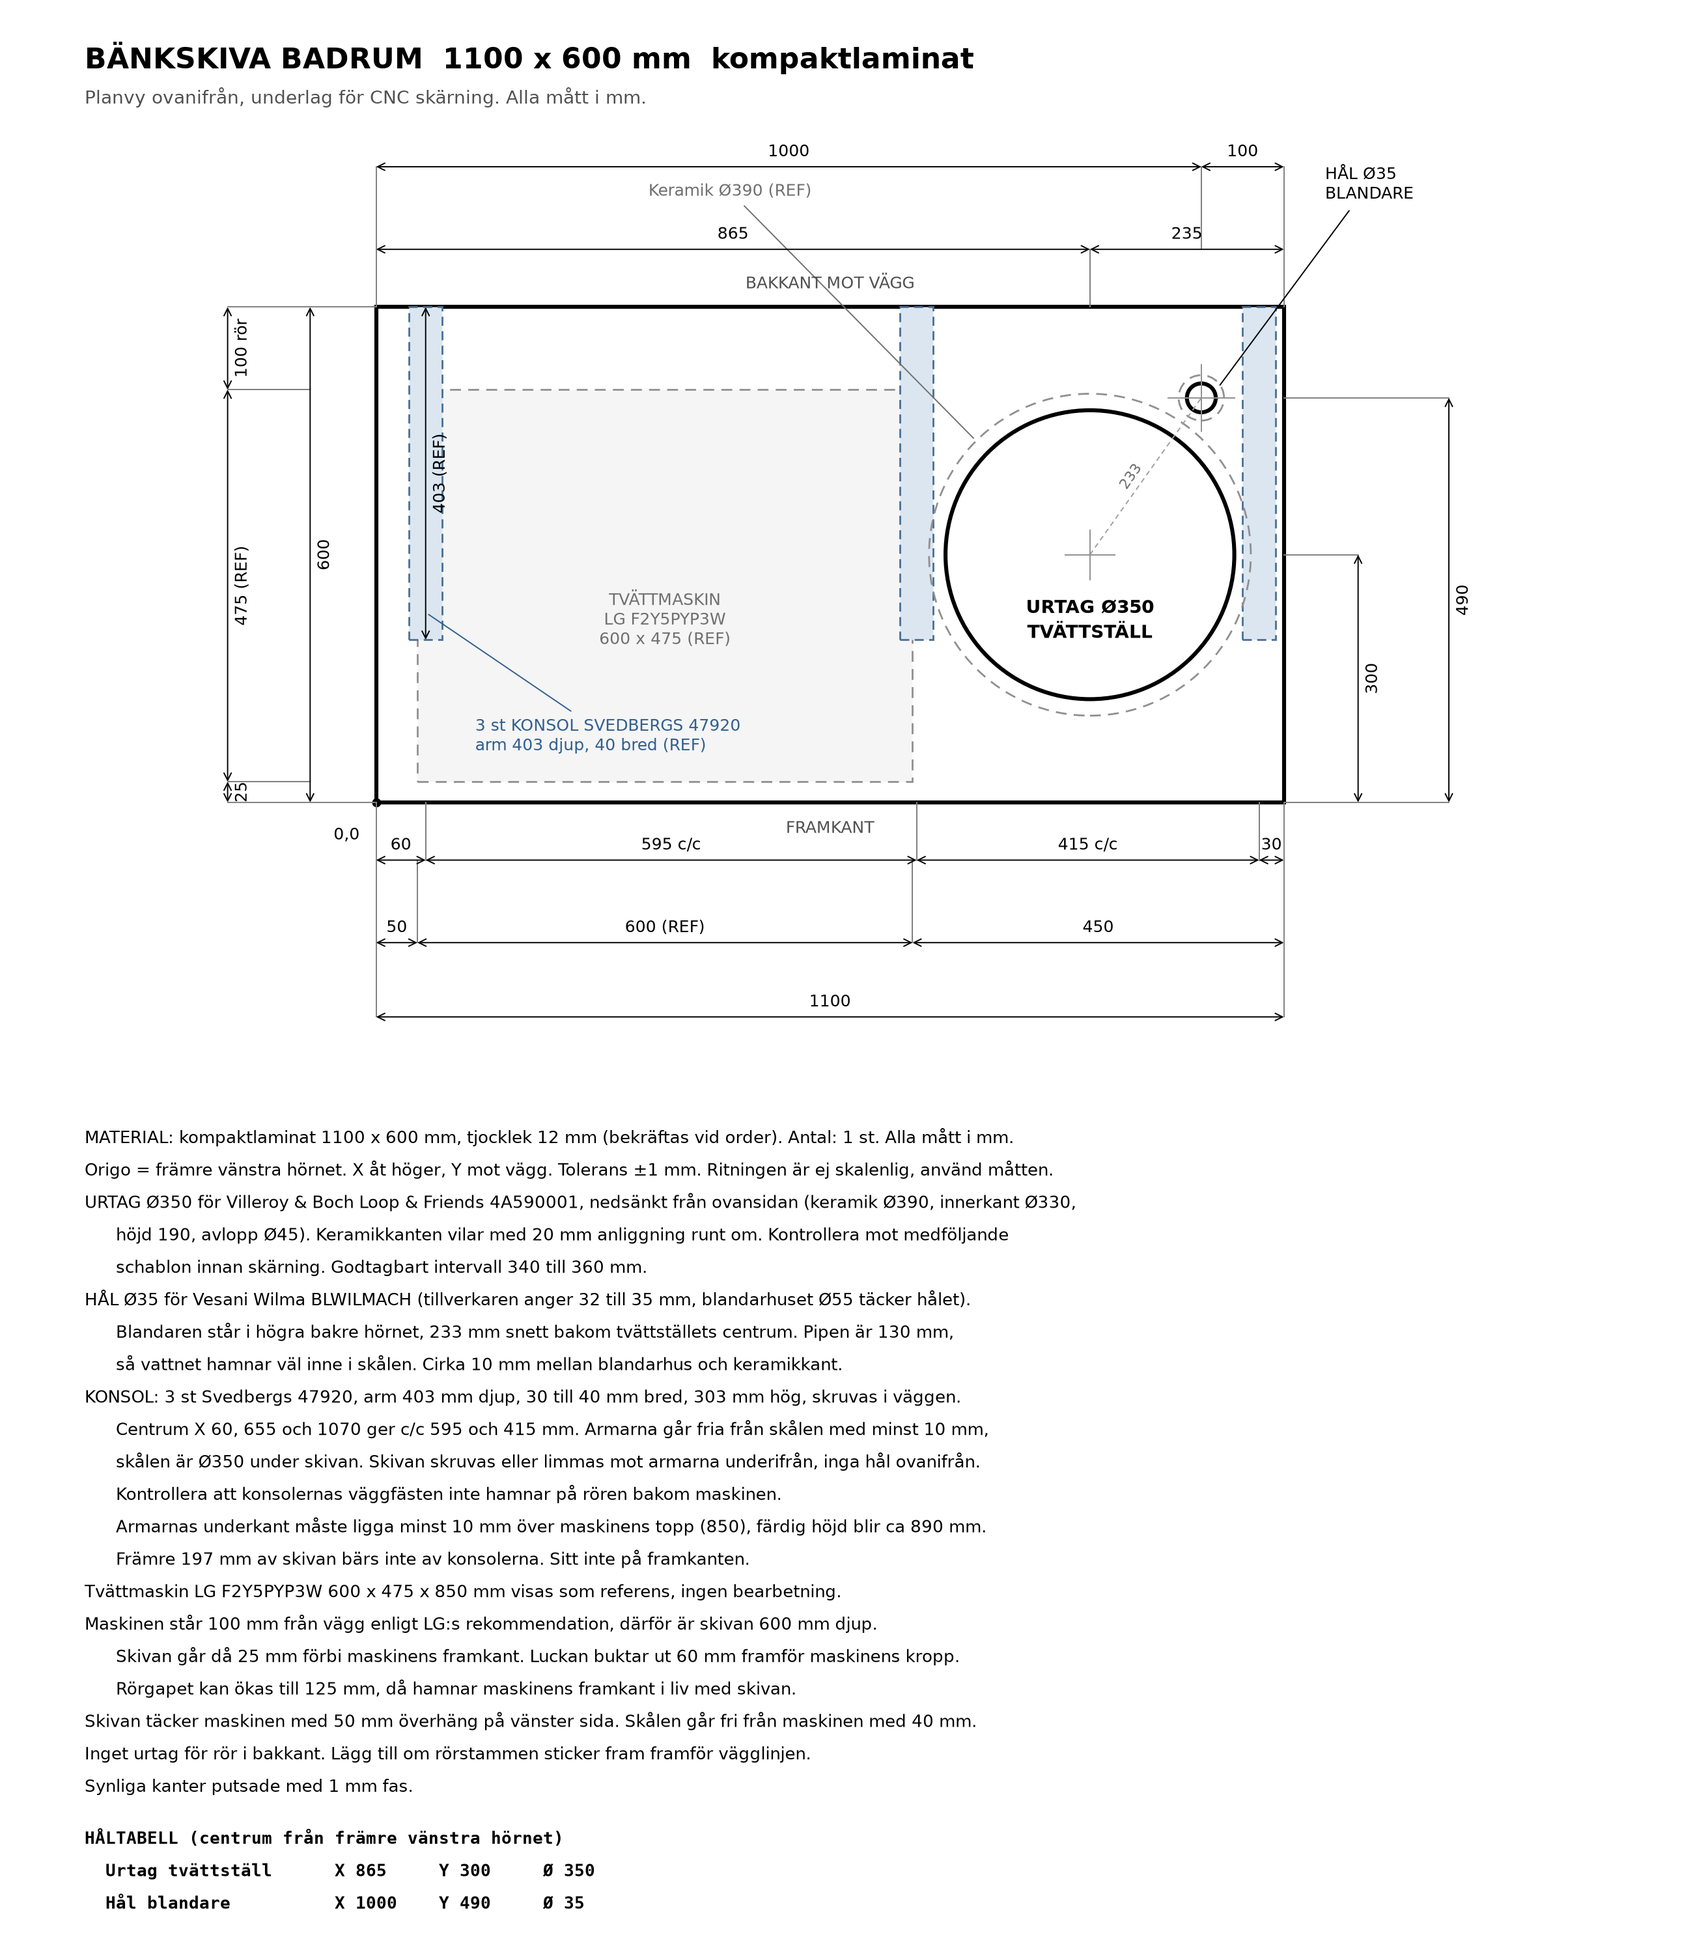
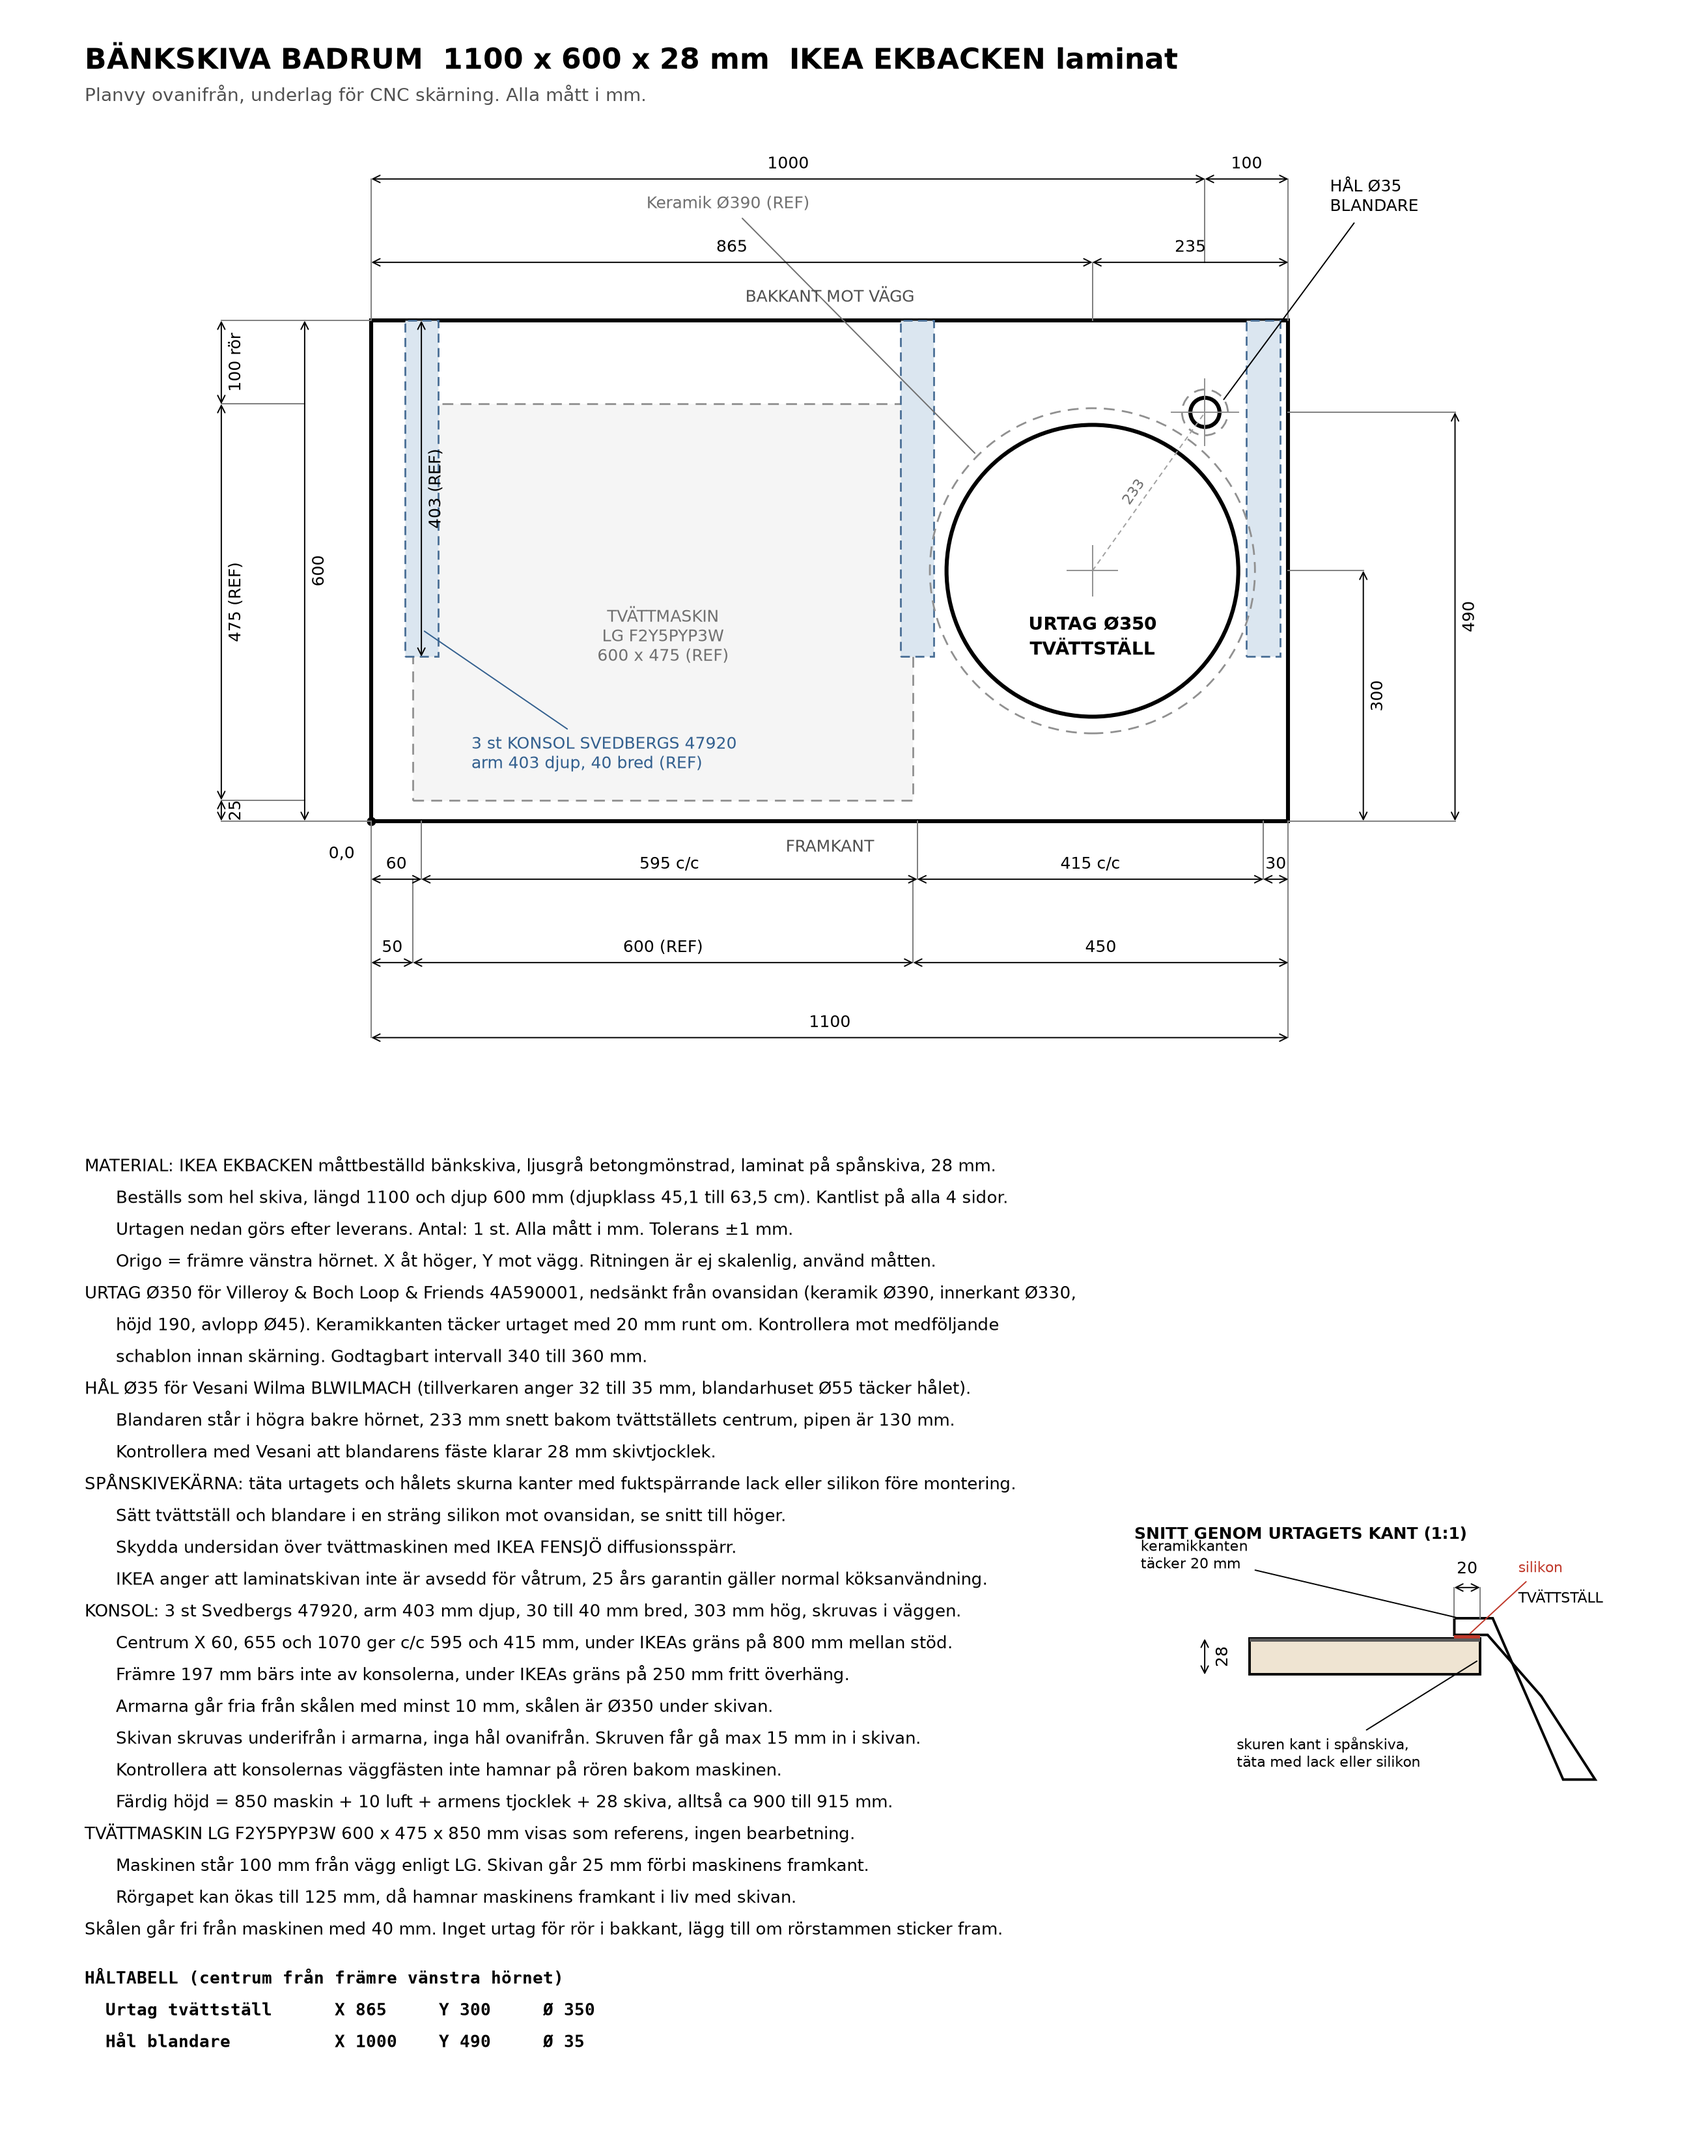
switch material to IKEA EKBACKEN 28 mm laminate, add edge section detail and clearance checks

diff --git a/worktop_drawing/plan_drawing.py b/worktop_drawing/plan_drawing.py
@@ -5,33 +5,38 @@ matplotlib.use("Agg")
 import matplotlib.pyplot as plt
 from matplotlib.patches import Circle, Rectangle
 
+import edge_detail
 import specs as s
 from drawing_helpers import cross, dim_h, dim_v, leader
 
 MACHINE_LINE = 1.0
 
 NOTES = [
-    "MATERIAL: kompaktlaminat 1100 x 600 mm, tjocklek 12 mm (bekräftas vid order). Antal: 1 st. Alla mått i mm.",
-    "Origo = främre vänstra hörnet. X åt höger, Y mot vägg. Tolerans ±1 mm. Ritningen är ej skalenlig, använd måtten.",
+    "MATERIAL: IKEA EKBACKEN måttbeställd bänkskiva, ljusgrå betongmönstrad, laminat på spånskiva, 28 mm.",
+    "      Beställs som hel skiva, längd 1100 och djup 600 mm (djupklass 45,1 till 63,5 cm). Kantlist på alla 4 sidor.",
+    "      Urtagen nedan görs efter leverans. Antal: 1 st. Alla mått i mm. Tolerans ±1 mm.",
+    "      Origo = främre vänstra hörnet. X åt höger, Y mot vägg. Ritningen är ej skalenlig, använd måtten.",
     "URTAG Ø350 för Villeroy & Boch Loop & Friends 4A590001, nedsänkt från ovansidan (keramik Ø390, innerkant Ø330,",
-    "      höjd 190, avlopp Ø45). Keramikkanten vilar med 20 mm anliggning runt om. Kontrollera mot medföljande",
+    "      höjd 190, avlopp Ø45). Keramikkanten täcker urtaget med 20 mm runt om. Kontrollera mot medföljande",
     "      schablon innan skärning. Godtagbart intervall 340 till 360 mm.",
     "HÅL Ø35 för Vesani Wilma BLWILMACH (tillverkaren anger 32 till 35 mm, blandarhuset Ø55 täcker hålet).",
-    "      Blandaren står i högra bakre hörnet, 233 mm snett bakom tvättställets centrum. Pipen är 130 mm,",
-    "      så vattnet hamnar väl inne i skålen. Cirka 10 mm mellan blandarhus och keramikkant.",
+    "      Blandaren står i högra bakre hörnet, 233 mm snett bakom tvättställets centrum, pipen är 130 mm.",
+    "      Kontrollera med Vesani att blandarens fäste klarar 28 mm skivtjocklek.",
+    "SPÅNSKIVEKÄRNA: täta urtagets och hålets skurna kanter med fuktspärrande lack eller silikon före montering.",
+    "      Sätt tvättställ och blandare i en sträng silikon mot ovansidan, se snitt till höger.",
+    "      Skydda undersidan över tvättmaskinen med IKEA FENSJÖ diffusionsspärr.",
+    "      IKEA anger att laminatskivan inte är avsedd för våtrum, 25 års garantin gäller normal köksanvändning.",
     "KONSOL: 3 st Svedbergs 47920, arm 403 mm djup, 30 till 40 mm bred, 303 mm hög, skruvas i väggen.",
-    "      Centrum X 60, 655 och 1070 ger c/c 595 och 415 mm. Armarna går fria från skålen med minst 10 mm,",
-    "      skålen är Ø350 under skivan. Skivan skruvas eller limmas mot armarna underifrån, inga hål ovanifrån.",
+    "      Centrum X 60, 655 och 1070 ger c/c 595 och 415 mm, under IKEAs gräns på 800 mm mellan stöd.",
+    "      Främre 197 mm bärs inte av konsolerna, under IKEAs gräns på 250 mm fritt överhäng.",
+    "      Armarna går fria från skålen med minst 10 mm, skålen är Ø350 under skivan.",
+    "      Skivan skruvas underifrån i armarna, inga hål ovanifrån. Skruven får gå max 15 mm in i skivan.",
     "      Kontrollera att konsolernas väggfästen inte hamnar på rören bakom maskinen.",
-    "      Armarnas underkant måste ligga minst 10 mm över maskinens topp (850), färdig höjd blir ca 890 mm.",
-    "      Främre 197 mm av skivan bärs inte av konsolerna. Sitt inte på framkanten.",
-    "Tvättmaskin LG F2Y5PYP3W 600 x 475 x 850 mm visas som referens, ingen bearbetning.",
-    "Maskinen står 100 mm från vägg enligt LG:s rekommendation, därför är skivan 600 mm djup.",
-    "      Skivan går då 25 mm förbi maskinens framkant. Luckan buktar ut 60 mm framför maskinens kropp.",
+    "      Färdig höjd = 850 maskin + 10 luft + armens tjocklek + 28 skiva, alltså ca 900 till 915 mm.",
+    "TVÄTTMASKIN LG F2Y5PYP3W 600 x 475 x 850 mm visas som referens, ingen bearbetning.",
+    "      Maskinen står 100 mm från vägg enligt LG. Skivan går 25 mm förbi maskinens framkant.",
     "      Rörgapet kan ökas till 125 mm, då hamnar maskinens framkant i liv med skivan.",
-    "Skivan täcker maskinen med 50 mm överhäng på vänster sida. Skålen går fri från maskinen med 40 mm.",
-    "Inget urtag för rör i bakkant. Lägg till om rörstammen sticker fram framför vägglinjen.",
-    "Synliga kanter putsade med 1 mm fas.",
+    "Skålen går fri från maskinen med 40 mm. Inget urtag för rör i bakkant, lägg till om rörstammen sticker fram.",
 ]
 
 HOLE_TABLE = [
@@ -218,8 +223,8 @@ def draw_dimensions(ax):
 
 
 def build_figure():
-    fig = plt.figure(figsize=(13, 15))
-    ax = fig.add_axes([0.05, 0.45, 0.9, 0.49])
+    fig = plt.figure(figsize=(13, 16.5))
+    ax = fig.add_axes([0.05, 0.49, 0.9, 0.45])
     ax.set_aspect("equal")
     ax.axis("off")
     ax.set_xlim(-260, 1400)
@@ -234,28 +239,31 @@ def build_figure():
 
     fig.text(
         0.05,
-        0.965,
-        "BÄNKSKIVA BADRUM  1100 x 600 mm  kompaktlaminat",
+        0.968,
+        "BÄNKSKIVA BADRUM  1100 x 600 x 28 mm  IKEA EKBACKEN laminat",
         fontsize=16,
         fontweight="bold",
     )
     fig.text(
         0.05,
-        0.947,
+        0.953,
         "Planvy ovanifrån, underlag för CNC skärning. Alla mått i mm.",
         fontsize=10,
         color="#505050",
     )
 
-    y = 0.415
+    y = 0.455
     for line in NOTES:
         fig.text(0.05, y, line, fontsize=9.5)
-        y = y - 0.0166
+        y = y - 0.0148
 
-    y = y - 0.010
+    y = y - 0.008
     for line in HOLE_TABLE:
         fig.text(0.05, y, line, fontsize=9.5, family="monospace", fontweight="bold")
-        y = y - 0.0166
+        y = y - 0.0148
+
+    detail_ax = fig.add_axes([0.67, 0.12, 0.31, 0.22])
+    edge_detail.draw_detail(detail_ax)
 
     return fig
 

diff --git a/worktop_drawing/edge_detail.py b/worktop_drawing/edge_detail.py
@@ -1,0 +1,88 @@
+from matplotlib.patches import Polygon, Rectangle
+
+import specs as s
+from drawing_helpers import dim_h, dim_v
+
+CUT_EDGE_X = 120
+RIM_X = CUT_EDGE_X - s.BASIN_RIM_OVERLAP
+
+
+def draw_top_section(ax):
+    ax.add_patch(
+        Rectangle(
+            (-60, -s.TOP_THICKNESS),
+            CUT_EDGE_X + 60,
+            s.TOP_THICKNESS,
+            facecolor="#efe4d2",
+            edgecolor="black",
+            lw=1.4,
+        )
+    )
+    ax.add_patch(
+        Rectangle((-60, -2.5), CUT_EDGE_X + 60, 2.5, facecolor="#5a5a5a", edgecolor="none")
+    )
+
+
+def draw_basin_section(ax):
+    ax.add_patch(
+        Polygon(
+            [
+                (RIM_X, 3),
+                (RIM_X, 16),
+                (RIM_X + 30, 16),
+                (150, -30),
+                (185, -110),
+                (210, -110),
+                (168, -45),
+                (126, 3),
+            ],
+            facecolor="white",
+            edgecolor="black",
+            lw=1.4,
+        )
+    )
+    ax.add_patch(
+        Polygon(
+            [(RIM_X, 0), (CUT_EDGE_X, 0), (CUT_EDGE_X, 3), (RIM_X, 3)],
+            facecolor="#c0392b",
+            edgecolor="none",
+        )
+    )
+    ax.text(150, 32, "TVÄTTSTÄLL", fontsize=8, ha="left", va="center")
+
+
+def draw_detail(ax):
+    ax.set_aspect("equal")
+    ax.axis("off")
+    ax.set_xlim(-150, 260)
+    ax.set_ylim(-115, 90)
+
+    draw_top_section(ax)
+    draw_basin_section(ax)
+
+    dim_v(ax, -s.TOP_THICKNESS, 0, -95, "28")
+    dim_h(ax, RIM_X, CUT_EDGE_X, 40, "20", tick_to=16)
+
+    ax.annotate(
+        "keramikkanten\ntäcker 20 mm",
+        xy=(RIM_X + 4, 16),
+        xytext=(-145, 55),
+        fontsize=8,
+        arrowprops=dict(arrowstyle="-", lw=0.7),
+    )
+    ax.annotate(
+        "silikon",
+        xy=(RIM_X + 10, 2),
+        xytext=(150, 52),
+        fontsize=8,
+        color="#c0392b",
+        arrowprops=dict(arrowstyle="-", lw=0.7, color="#c0392b"),
+    )
+    ax.annotate(
+        "skuren kant i spånskiva,\ntäta med lack eller silikon",
+        xy=(CUT_EDGE_X, -16),
+        xytext=(-70, -100),
+        fontsize=8,
+        arrowprops=dict(arrowstyle="-", lw=0.7),
+    )
+    ax.text(-150, 78, "SNITT GENOM URTAGETS KANT (1:1)", fontsize=9, fontweight="bold")

diff --git a/worktop_drawing/checks.py b/worktop_drawing/checks.py
@@ -1,0 +1,44 @@
+import math
+
+import specs as s
+
+BASIN_RADIUS = s.BASIN_CUTOUT_DIAMETER / 2
+CERAMIC_RADIUS = s.BASIN_CERAMIC_DIAMETER / 2
+MIXER_RADIUS = s.MIXER_HOLE_DIAMETER / 2
+BODY_RADIUS = s.MIXER_BODY_DIAMETER / 2
+MACHINE_RIGHT = s.MACHINE_LEFT_MARGIN + s.MACHINE_WIDTH
+
+
+def report():
+    print("skiva", s.TOP_WIDTH, "x", s.TOP_DEPTH, "x", s.TOP_THICKNESS)
+    print("maskin i djup", s.MACHINE_FRONT_OFFSET, "till", s.MACHINE_FRONT_OFFSET + s.MACHINE_DEPTH)
+    print("skål mot maskin", s.BASIN_CENTER_X - BASIN_RADIUS - MACHINE_RIGHT)
+    print("keramik mot höger kant", s.TOP_WIDTH - (s.BASIN_CENTER_X + CERAMIC_RADIUS))
+    print("keramik mot bakkant", s.TOP_DEPTH - (s.BASIN_CENTER_Y + CERAMIC_RADIUS))
+    print("keramik mot framkant", s.BASIN_CENTER_Y - CERAMIC_RADIUS)
+
+    avstand = math.dist(
+        (s.BASIN_CENTER_X, s.BASIN_CENTER_Y), (s.MIXER_CENTER_X, s.MIXER_CENTER_Y)
+    )
+    print("blandare till tvättställ centrum", round(avstand, 1))
+    print("blandarhus mot keramikkant", round(avstand - CERAMIC_RADIUS - BODY_RADIUS, 1))
+    print("vatten landar från centrum", round(avstand - s.MIXER_SPOUT_REACH, 1))
+    print("blandarhål mot bakkant", s.TOP_DEPTH - s.MIXER_CENTER_Y - MIXER_RADIUS)
+    print("blandarhål mot höger kant", s.TOP_WIDTH - s.MIXER_CENTER_X - MIXER_RADIUS)
+
+    for x in s.BRACKET_CENTERS:
+        vanster = x - s.BRACKET_WIDTH / 2
+        hoger = x + s.BRACKET_WIDTH / 2
+        if hoger < s.BASIN_CENTER_X:
+            marginal = s.BASIN_CENTER_X - BASIN_RADIUS - hoger
+        else:
+            marginal = vanster - (s.BASIN_CENTER_X + BASIN_RADIUS)
+        print("konsol", x, "mot skål", marginal)
+
+    print("konsol mot blandarhål", s.BRACKET_CENTERS[2] - s.BRACKET_WIDTH / 2 - (s.MIXER_CENTER_X + MIXER_RADIUS))
+    print("fritt överhäng fram", s.TOP_DEPTH - s.BRACKET_DEPTH)
+    print("spann konsol", s.BRACKET_CENTERS[1] - s.BRACKET_CENTERS[0], s.BRACKET_CENTERS[2] - s.BRACKET_CENTERS[1])
+
+
+if __name__ == "__main__":
+    report()

diff --git a/worktop_drawing/specs.py b/worktop_drawing/specs.py
@@ -1,6 +1,7 @@
 TOP_WIDTH = 1100
 TOP_DEPTH = 600
-TOP_THICKNESS = 12
+TOP_THICKNESS = 28
+BASIN_RIM_OVERLAP = 20
 
 MACHINE_WIDTH = 600
 MACHINE_DEPTH = 475

diff --git a/worktop_drawing/README.md b/worktop_drawing/README.md
@@ -1,13 +1,14 @@
-# Bänkskiva badrum 1100 x 600 mm
+# Bänkskiva badrum 1100 x 600 x 28 mm
 
-Ritningsunderlag för CNC skärning av en kompaktlaminatskiva med nedsänkt tvättställ och blandare.
-Djupet är 600 mm eftersom LG vill ha 100 mm luft bakom tvättmaskinen.
+Ritningsunderlag för skärning av urtag i en IKEA EKBACKEN måttbeställd bänkskiva med nedsänkt
+tvättställ och blandare. Djupet är 600 mm eftersom LG vill ha 100 mm luft bakom tvättmaskinen.
 
 ## Körning
 
 ```bash
 pip install -r requirements.txt
 python make_drawing.py
+python checks.py
 ```
 
 Filerna hamnar i `output/`:
@@ -20,12 +21,16 @@ Filerna hamnar i `output/`:
 - `specs.py` samlar alla mått på ett ställe, ändra bara här
 - `drawing_helpers.py` ritar måttlinjer, hänvisningar och centrummarkeringar
 - `plan_drawing.py` bygger planvyn med noter och håltabell
+- `edge_detail.py` ritar snittet genom urtagets kant
 - `dxf_export.py` skriver samma geometri som DXF
+- `checks.py` skriver ut alla marginaler så måtten kan kontrolleras
 - `make_drawing.py` kör allt och sparar filerna
 
 ## Produkter
 
+- Bänkskiva: IKEA EKBACKEN måttbeställd, ljusgrå betongmönstrad, laminat på spånskiva, 28 mm,
+  djupklass 45,1 till 63,5 cm, kantlist på alla 4 sidor
 - Tvättställ: Villeroy & Boch Loop & Friends 4A590001, Ø390 mm, innerkant Ø330 mm, höjd 190 mm
 - Blandare: Vesani Wilma BLWILMACH, hålkrav 32 till 35 mm, piputsprång 130 mm, blandarhus Ø55 mm
-- Tvättmaskin: LG F2Y5PYP3W, 600 x 475 x 850 mm
+- Tvättmaskin: LG F2Y5PYP3W, 600 x 475 x 850 mm, minst 100 mm bakom och 20 mm på sidorna
 - Konsol: 3 st Svedbergs 47920, 30 till 40 x 303 x 403 mm (BxHxD), fästs i väggen
